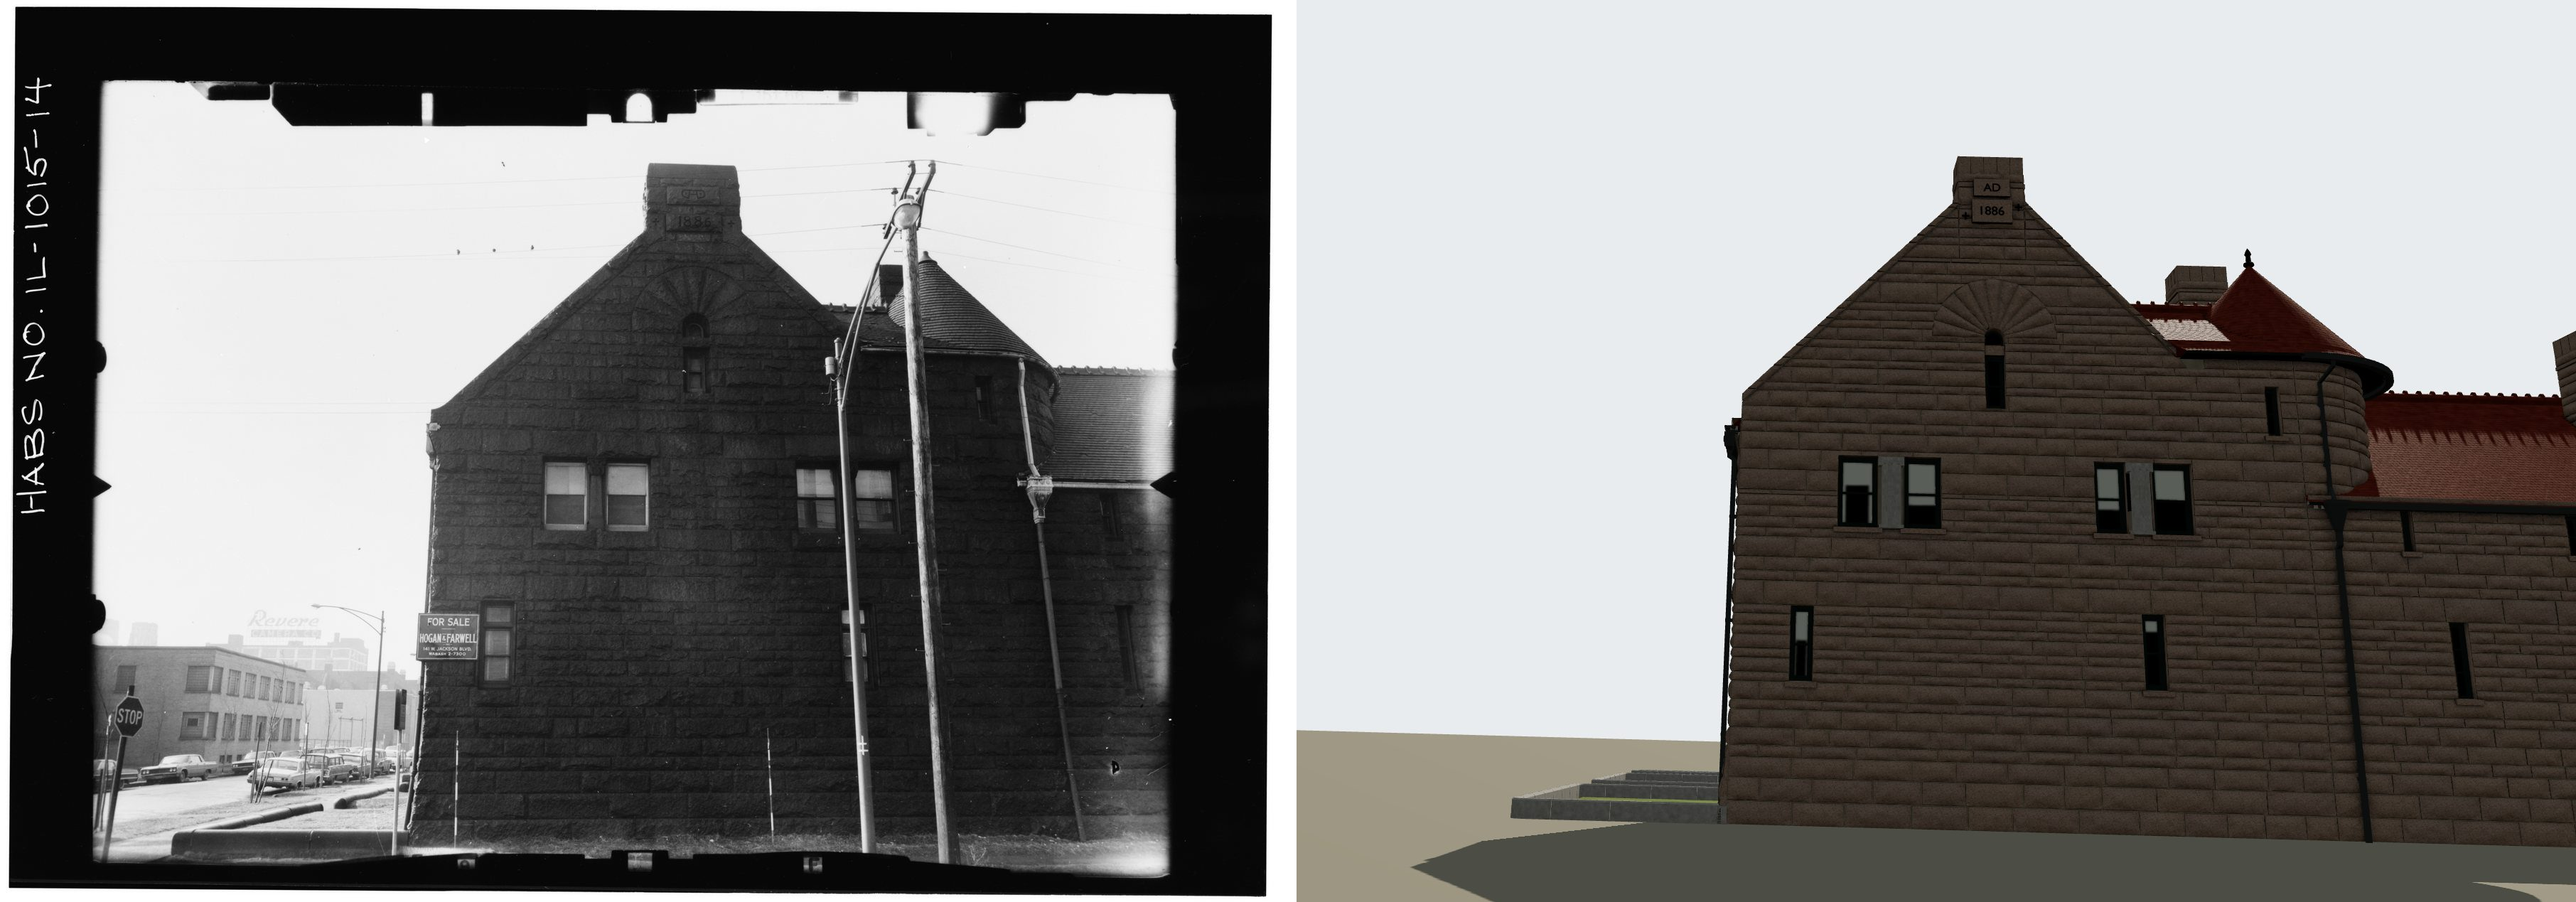
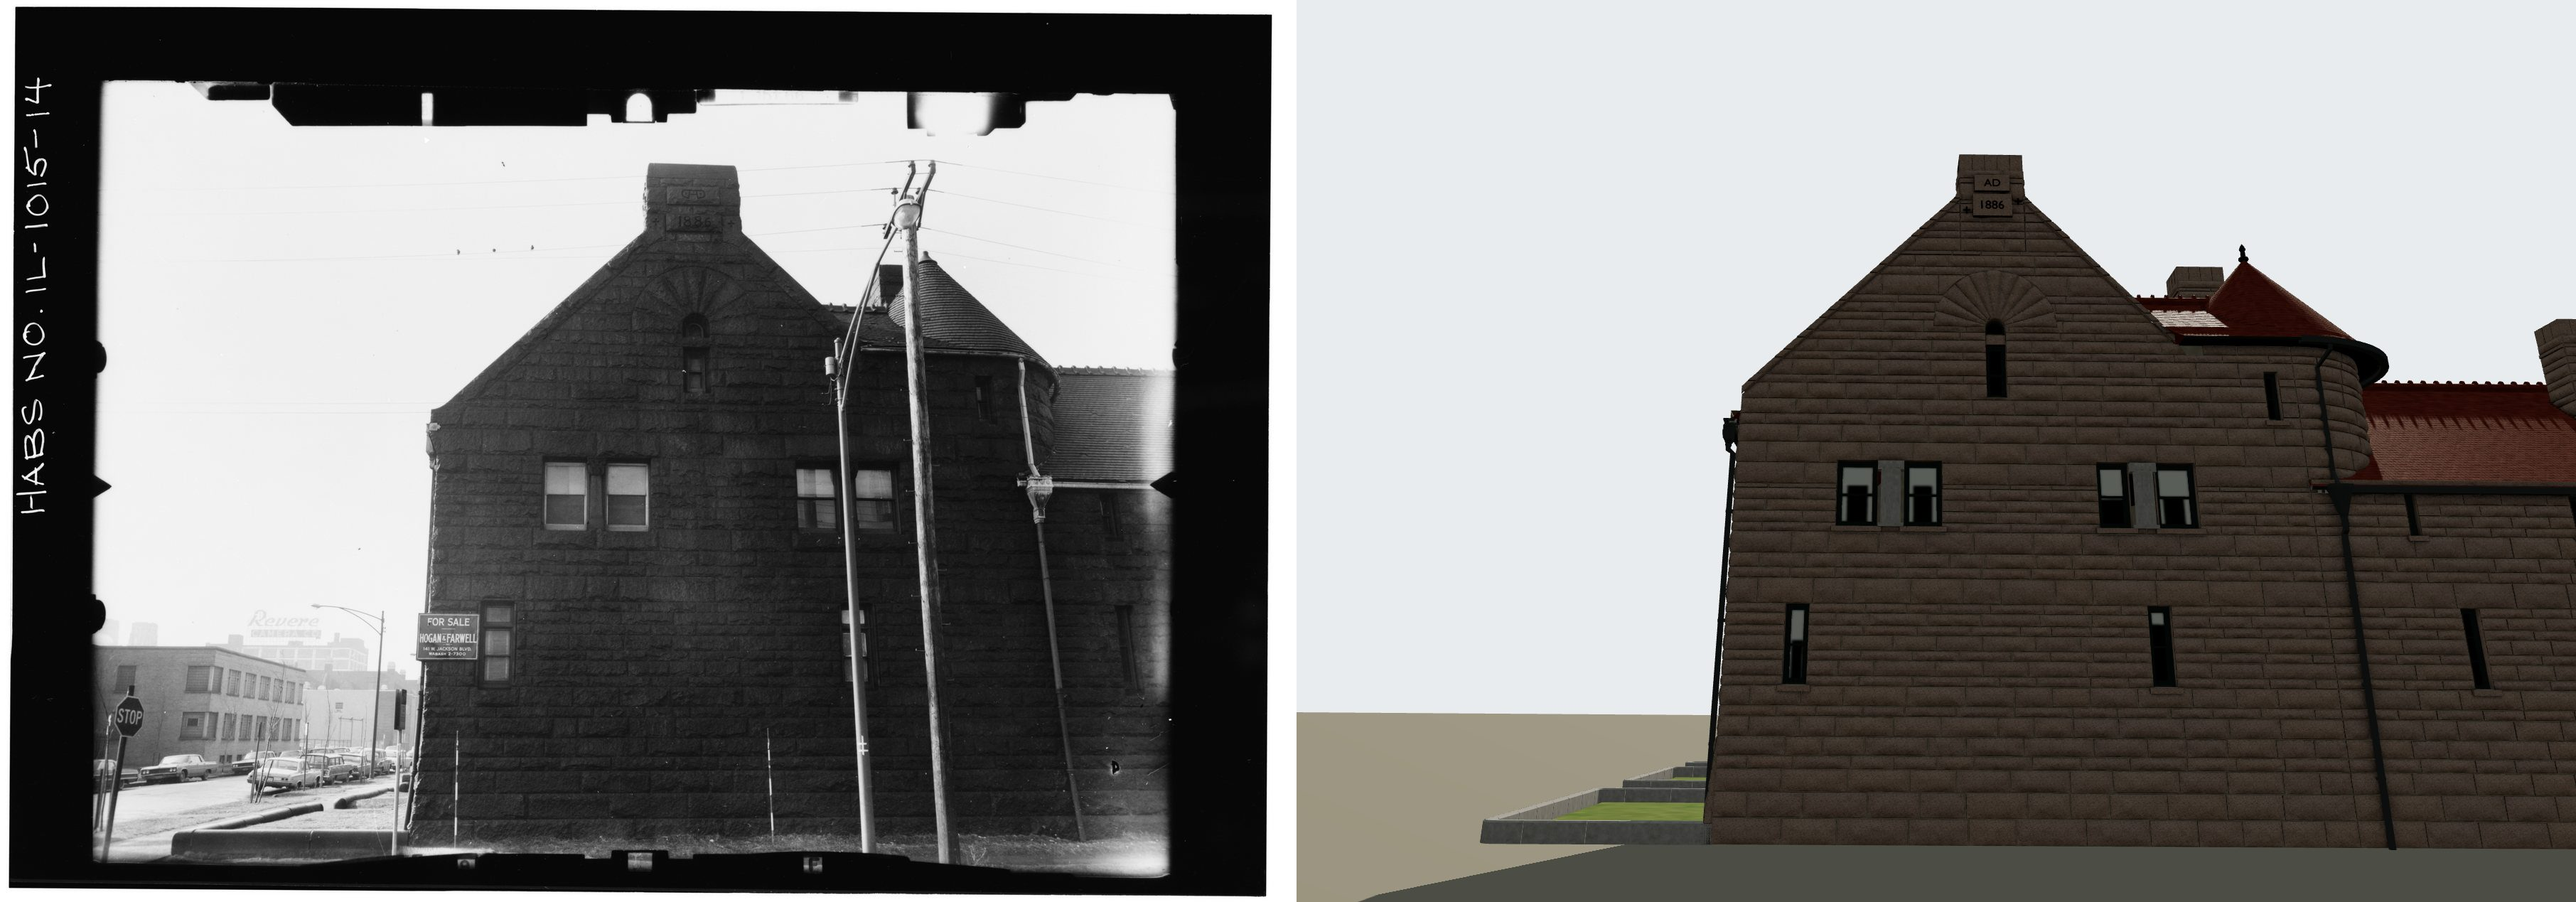
T-2855: north cameras re-solved with the pairs' heights free; match records reviewed; derived files and changelog entry

diff --git a/chicago/4d/docs/RESEARCH/glessner-windows-2211/opening-schedule.md b/chicago/4d/docs/RESEARCH/glessner-windows-2211/opening-schedule.md
@@ -31,12 +31,12 @@ GENERATED by `python3 tools/glessner_opening_schedule.py` from `data/structures/
 | at (ft) | z (ft) | lights | built as | what | record · confidence |
 |---|---|---|---|---|---|
 | 4–5.6 | 9.25–14.458 | 1 | one-over-one double-hung, upper sash outside the lower | narrow corridor windows, first floor | `openings_18th` · inferred |
-| 7.2–10.1 | 20–25.25 | 1 | one-over-one double-hung, upper sash outside the lower | paired second-floor windows, east wing gable | `openings_18th` · inferred |
-| 12–14.7 | 20–25.25 | 1 | one-over-one double-hung, upper sash outside the lower | paired second-floor windows, east wing gable | `openings_18th` · inferred |
+| 7.2–10.1 | 19.6–24.3 | 1 | one-over-one double-hung, upper sash outside the lower | paired second-floor windows, east wing gable | `openings_18th` · inferred |
+| 12–14.7 | 19.6–24.3 | 1 | one-over-one double-hung, upper sash outside the lower | paired second-floor windows, east wing gable | `openings_18th` · inferred |
 | 18.05–19.55 | 29–35.2 (transom 33.14–33.88) | 1 | round-headed fixed light, stone transom, one-over-one sash | east-wing north-gable round-headed light over a stone transom and a one-over-one sash, HABS photo 14 | `v4_detail` · reconstructed |
-| 25.8–28.1 | 20–25.25 | 1 | one-over-one double-hung, upper sash outside the lower | paired second-floor windows in the flat north-gable tower shoulder | `openings_18th` · inferred |
+| 25.8–28.1 | 19.6–24.3 | 1 | one-over-one double-hung, upper sash outside the lower | paired second-floor windows in the flat north-gable tower shoulder | `openings_18th` · inferred |
 | 28.7–30.3 | 9.25–14.458 | 1 | one-over-one double-hung, upper sash outside the lower | narrow corridor windows, first floor | `openings_18th` · inferred |
-| 30–32.9 | 20–25.25 | 1 | one-over-one double-hung, upper sash outside the lower | paired second-floor windows in the flat north-gable tower shoulder | `openings_18th` · inferred |
+| 30–32.9 | 19.6–24.3 | 1 | one-over-one double-hung, upper sash outside the lower | paired second-floor windows in the flat north-gable tower shoulder | `openings_18th` · inferred |
 | 38.7–39.8 | 27.4–31.2 | 1 | single sash, 2 lights on horizontal bars | narrow attic light in the flat north tower shoulder, HABS 01 and 14 | `openings_18th_photo` · inferred |
 | 47.7–48.5 | 19.25–22.25 | 1 | single sash, 2 lights on horizontal bars | second-floor windows | `openings_18th` · inferred |
 | 50.2–51.5 | 9.25–14.458 | 1 | single sash, 3 lights on horizontal bars | narrow corridor windows, first floor | `openings_18th` · inferred |
